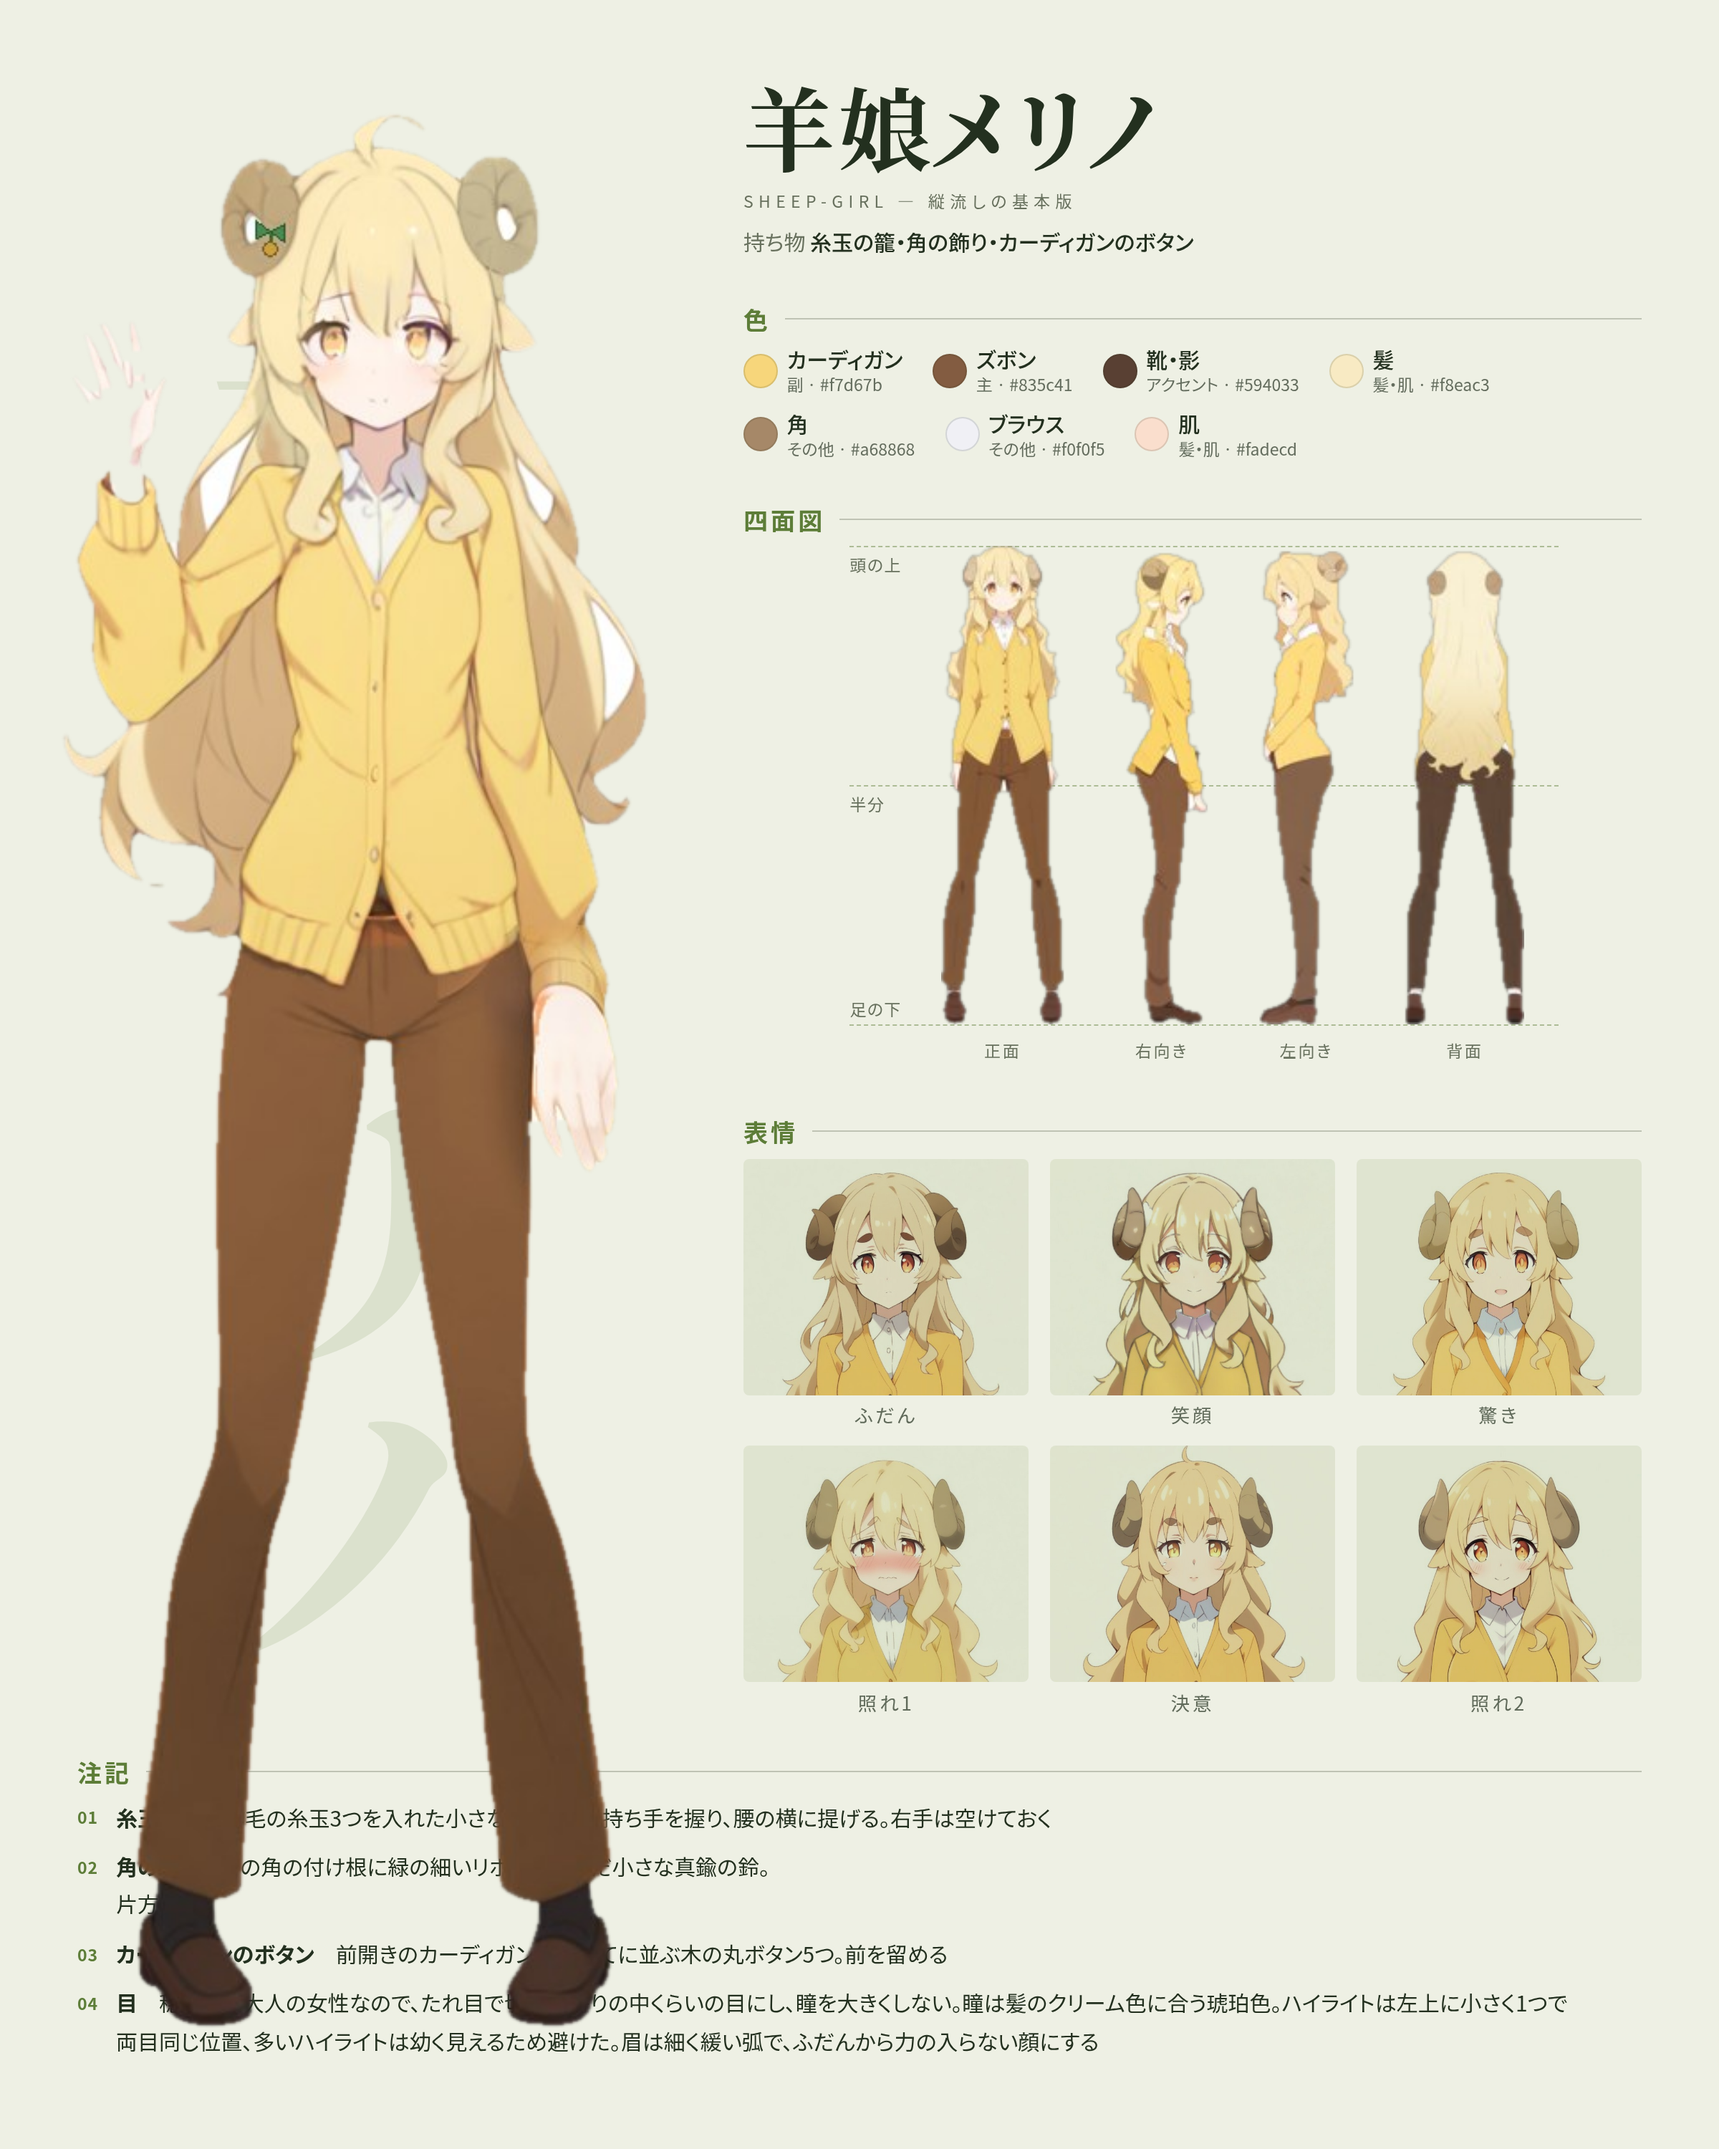
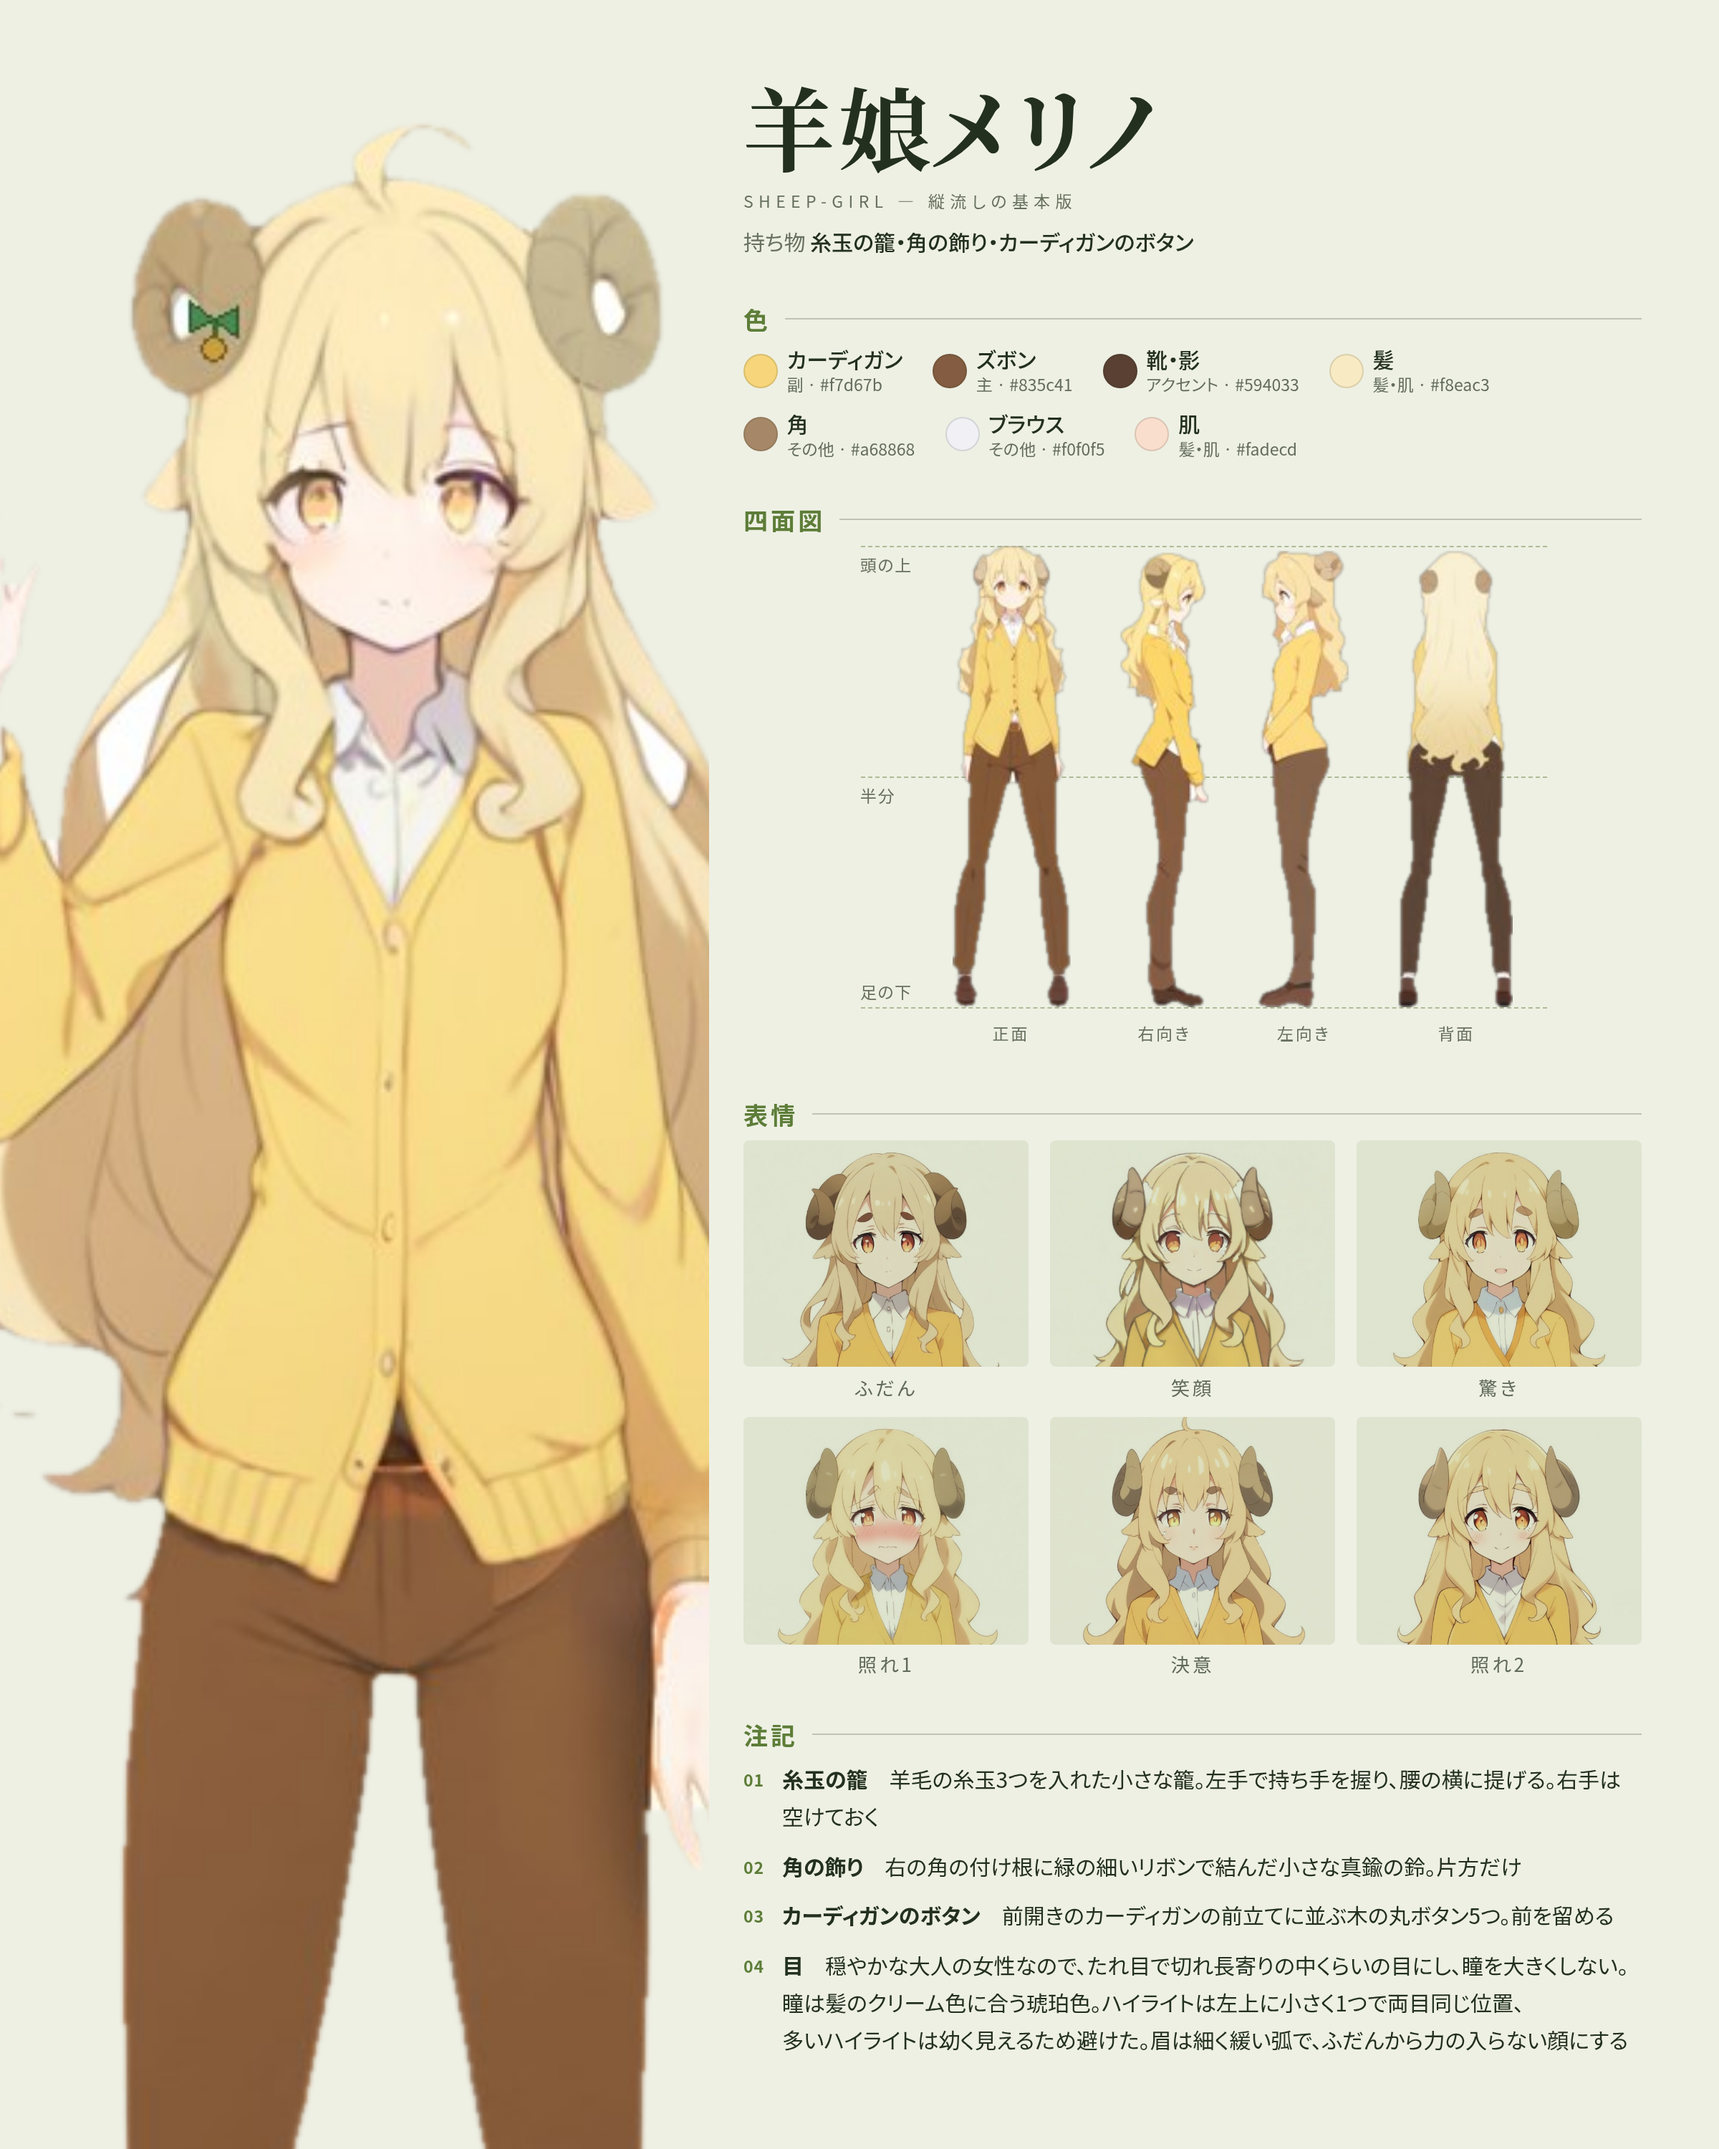
設定画集の版の裁ち落としと重なりを批評の5周目の指摘で直す
主役は膝より上で思い切って切り、注記や隣の図の文字にはかぶせない（clip の辺）。
紹介型は人物を名前より手前に置く。読めなかった後ろの縦書きは外し、色指定型は名前を大きくする。

Claude-Session: https://claude.ai/code/session_01SckJ2FC4PhB88prMhjDTEV

diff --git a/tools/gen/sheetlayout.py b/tools/gen/sheetlayout.py
@@ -29,7 +29,7 @@ CHROME = os.environ.get("SHEET_CHROME", "/opt/pw-browsers/chromium-1194/chrome-l
 VIEW_NAMES = {4: ["正面", "右向き", "左向き", "背面"], 2: ["正面", "背面"], 1: ["正面"]}
 TILE_CROP = (0.10, 0.0, 0.90, 0.50)   # 表情の絵から頭と肩を切る割合。顔だけ（FACE_CROP）だと髪型と襟が切れて別人に見えた
 # 顔の大写し: 額と顎を枠で切る。実例の紹介頁は顔を大胆に切って目を大きく見せていた。表情の差は目と口に出るので、そこを残す
-TIGHT_CROP = (0.27, 0.12, 0.74, 0.36)
+TIGHT_CROP = (0.22, 0.09, 0.79, 0.38)   # 角や髪飾りのある頭で、角が切れて頭の形が読めないほどには寄らない
 
 
 def _uri(im, fmt="PNG") -> str:
@@ -280,7 +280,10 @@ def _panel_html(pn, ctx):
         shadow = ' data-shadow="1"' if sc <= 1 and anchor == "bottom" else ""   # 足が切れるときは影を置かない
         # 名前の大きな文字を人物の後ろに敷く（実例では人物が名前や大きな文字にかぶさる作りがあった）
         wm = _wm(c) if pn.get("watermark") else ""
-        return f'<div class="fit" data-scale="{sc}" data-anchor="{anchor}"{shadow}>{wm}<img src="{_uri(im)}"></div>'
+        # clip の辺は区画の線で切る。拡大した人物が隣の図の文字（高さの線の名前など）にかぶるのを防ぐ
+        ins = " ".join("0" if sd in pn.get("clip", []) else "-100vw" for sd in ("top", "right", "bottom", "left"))
+        clip = f' style="clip-path:inset({ins})"' if pn.get("clip") else ""
+        return f'<div class="fit" data-scale="{sc}" data-anchor="{anchor}"{shadow}{clip}>{wm}<img src="{_uri(im)}"></div>'
     if k == "turnaround":
         figs = ctx["figs"]
         if not figs:
@@ -319,13 +322,13 @@ def _panel_html(pn, ctx):
         notes = ctx["notes"]
         if pn.get("brief"):   # 総覧では各注記の最初の一文だけにする。全文は作画用の版に載せる（狭い欄に全文を詰めると欄からあふれた）
             notes = [t.split("。")[0] for t in notes]
-            # 長い文は最初の読点までにし、それでも長ければ項目名だけにする（「…」で切ると文の途中で切れて見えた）
+            # 長い文は最初の読点までにする（「…」で切ると文の途中で切れて見え、項目名だけにすると見出しの羅列に見えた）
             def cut(t):
                 k, _, v = t.partition(": ")
                 if len(v) <= 24:
                     return t
                 head = v.split("、")[0]
-                return f"{k}: {head}" if len(head) <= 24 else k
+                return f"{k}: {head}"
             notes = [cut(t) for t in notes]
         lis = "".join(f'<li><span><b>{e(t.split(": ", 1)[0])}</b>　{e(t.split(": ", 1)[1] if ": " in t else "")}</span></li>' for t in notes)
         if pn.get("columns"):
@@ -431,11 +434,14 @@ def render(ident: str, fm: dict, th: dict, out_png: str, out_html: str | None = 
     v["--areas"] = " ".join(f'"{" ".join(r)}"' for r in rows)
     v["--rows"] = " ".join(fm["rows"])
     style = ":root{" + ";".join(f"{k}:{val}" for k, val in v.items()) + "}"
+    hero_areas = {pn["area"] for pn in fm["panels"] if pn["kind"] == "hero"}
+
     def cell(a, p):
         f = free.get(a, {"bleed": set(), "overlap": False})
         st = f"grid-area:{a}" + "".join(f";margin-{side}:calc(-1 * var(--m))" for side in sorted(f["bleed"]))
         mark = (" data-bleed=\"" + " ".join(sorted(f["bleed"])) + "\"" if f["bleed"] else "") + (" data-overlap=\"1\"" if f["overlap"] else "")
-        z = ";z-index:2" if f["overlap"] or f["bleed"] else ""
+        # 主役の区画を最も手前に置く。名前に重ねるときは、名前（overlap の印だけの区画）より人物を上にする
+        z = ";z-index:3" if a in hero_areas else (";z-index:1" if f["overlap"] or f["bleed"] else "")
         return f'<div class="cell" data-area="{a}"{mark} style="{st}{z}">{"".join(p)}</div>'
     body = "".join(cell(a, p) for a, p in cells.items())
     doc = (f'<!doctype html><html lang="ja"><meta charset="utf-8"><title>{html.escape(c["name"])} {html.escape(fm["title"])}</title>'
